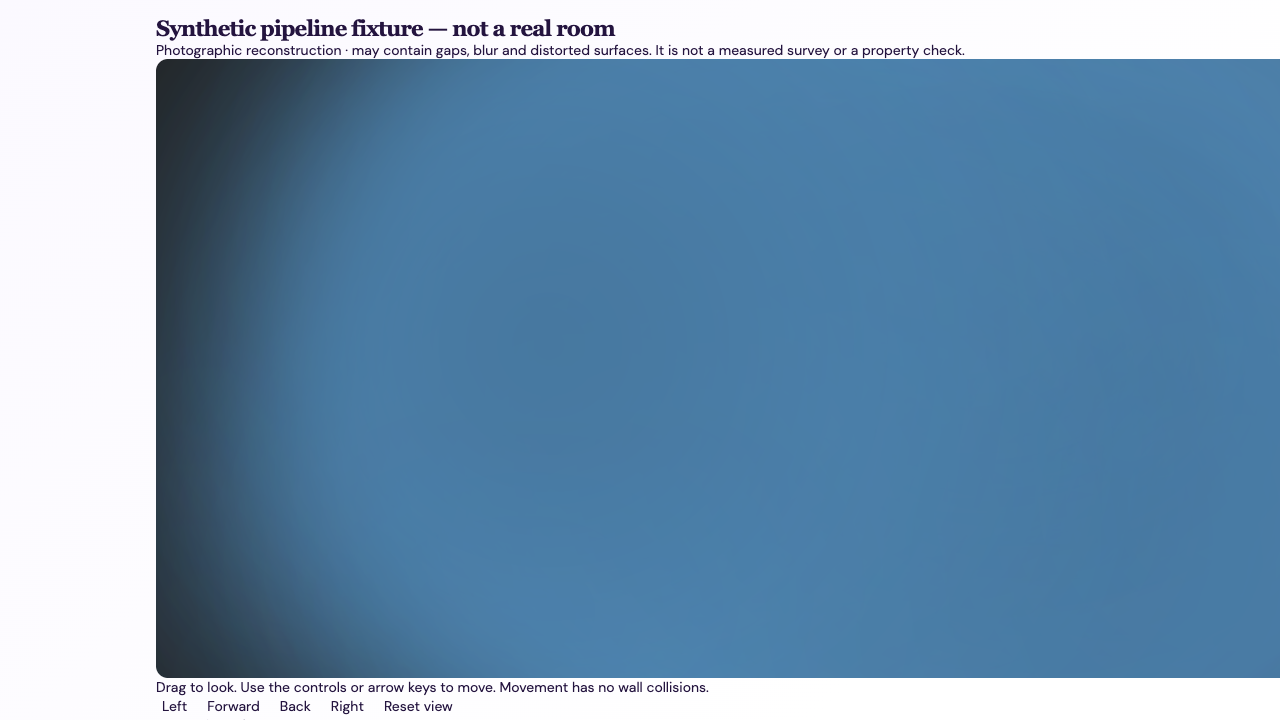
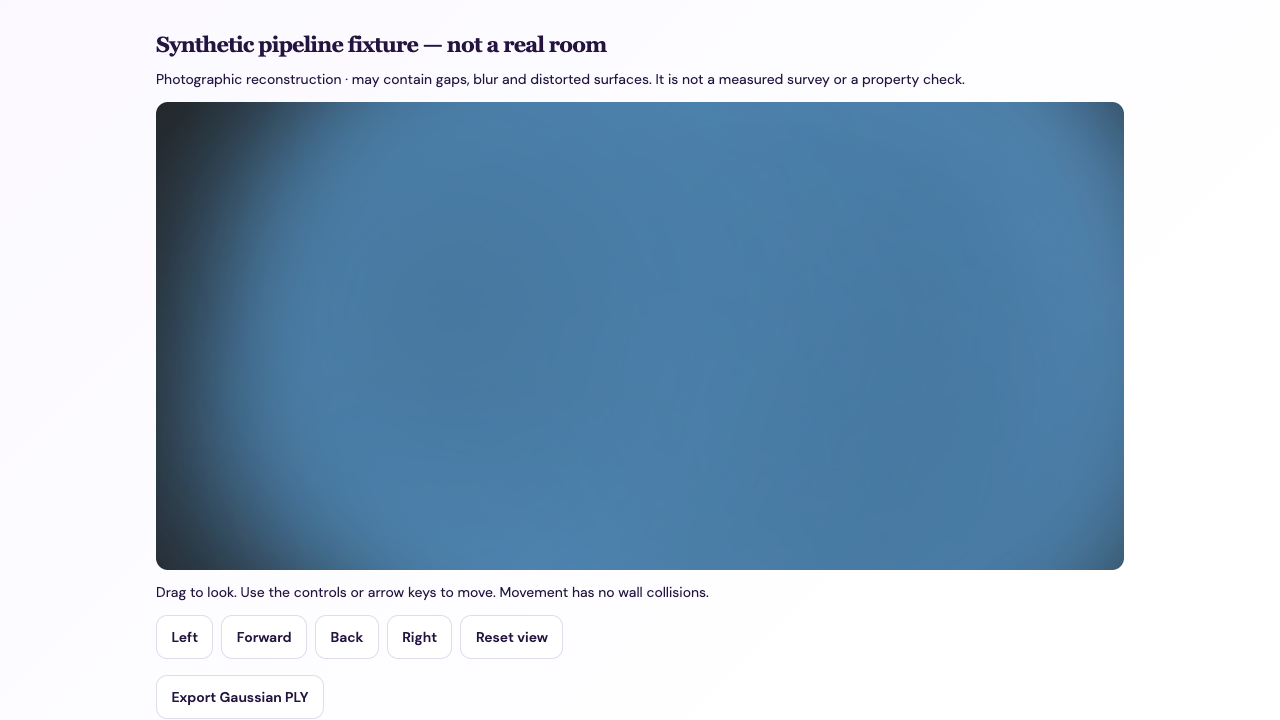
Assert processor shutdown before cleanup on exceptional exits

Changed region(s): [[0.125, 0.0306, 1.0, 1.0]]

diff --git a/tests/tour-processor-unit.py b/tests/tour-processor-unit.py
@@ -14,13 +14,15 @@ class ProcessorCleanup(unittest.TestCase):
   data=b'synthetic';process=Mock();process.poll.return_value=None
   api=Mock();api.request.return_value=io.BytesIO(data)
   job={'id':'synthetic','claim':'claim','inputSize':len(data),'inputHash':hashlib.sha256(data).hexdigest()}
+  events=[]
   with tempfile.TemporaryDirectory() as root:
    @contextlib.contextmanager
    def directory(**kwargs):
-    yield root
-    self.assertTrue(stop.called,'Training must stop before private files are removed')
-   with patch.object(worker.tempfile,'TemporaryDirectory',directory),patch.object(worker.subprocess,'Popen',return_value=process),patch.object(worker,'stop_process') as stop,patch.object(worker.time,'monotonic',side_effect=[0,8000]):
+    try:yield root
+    finally:events.append('cleanup')
+   with patch.object(worker.tempfile,'TemporaryDirectory',directory),patch.object(worker.subprocess,'Popen',return_value=process),patch.object(worker,'stop_process',side_effect=lambda _:events.append('stop')) as stop,patch.object(worker.time,'monotonic',side_effect=[0,8000]):
     worker.process_job(api,job,Path(root))
+   self.assertLess(events.index('stop'),events.index('cleanup'),'Training must stop before private files are removed')
    api.json.assert_called_once_with('synthetic/fail',{'code':'timeout'},job=job)
 
 if __name__=='__main__':unittest.main()
